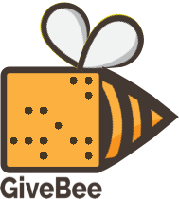
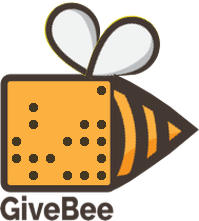
read.py working, time to begin transfer to swift

diff --git a/dot.py b/dot.py
@@ -1,11 +1,10 @@
 #! /usr/local/bin/python3
 from PIL import Image, ImageDraw
-from random import randint
 from math import sqrt
-import sys
+import sys, config
 
-GIVEBEE_BLACK = '#443822'
-PERCENT_OF_SCREEN = 0.034
+GIVEBEE_BLACK = config.GIVEBEE_BLACK
+PERCENT_OF_SCREEN = config.PERCENT_OF_SCREEN
 
 def drawx36(beeLogo, instaPhoto):
 	beeLogoDynamic = dynamic(beeLogo, instaPhoto)
@@ -45,7 +44,7 @@ def dynamic(beeLogo, instaPhoto):
 	beeLogoHeight, beeLogoWidth = beeLogo.size
 	instaPhotoHeight, instaPhotoWidth = instaPhoto.size
 	resizeRatio = min((instaPhotoWidth*sqrt(PERCENT_OF_SCREEN))/beeLogoWidth, (instaPhotoHeight*sqrt(PERCENT_OF_SCREEN))/beeLogoHeight)
-	beeLogoDynamic = beeLogo.resize((int(beeLogoHeight * resizeRatio), int(beeLogoWidth * resizeRatio)))
+	beeLogoDynamic = beeLogo.resize((int(beeLogoHeight * resizeRatio), int(beeLogoWidth * resizeRatio)), Image.ANTIALIAS)
 	return beeLogoDynamic
 
 def overlay_logo(beeLogo, instaPhoto):
@@ -56,8 +55,9 @@ def overlay_logo(beeLogo, instaPhoto):
 
 def write_log(user_id):
 	with open('log.txt', 'w') as log:
-		print(pad_user_id(str(bin(user_id))[2:]))
 		log.write(pad_user_id(str(bin(user_id))[2:]))
+	with open('log_id.txt', 'w') as log_id:
+		log_id.write(str(user_id))
 
 def pad_user_id(user_id):
 	while len(user_id) < 36:
@@ -82,7 +82,7 @@ def main():
 		else:
 			sys.exit("incorrect asset size, try 1, 2, 3")
 
-	instaPhoto = Image.open('./images/insta2.jpg')
+	instaPhoto = Image.open('./images/insta0.jpg')
 
 	overlay_logo(drawx36(beeLogo, instaPhoto), instaPhoto)
 

diff --git a/read.py b/read.py
@@ -1,2 +1,47 @@
 #! /usr/local/bin/python3
+from PIL import Image
+import config
+
+GIVEBEE_BLACK = config.GIVEBEE_BLACK
+PERCENT_OF_SCREEN = config.PERCENT_OF_SCREEN
+
+def crop_to_bee(readPhoto, beeLogo):
+	readPhotoHeight, readPhotoWidth = readPhoto.size
+	beeLogoHeight, beeLogoWidth = beeLogo.size
+	croppedBee = readPhoto.crop((readPhotoHeight - beeLogoHeight, readPhotoWidth - beeLogoWidth, readPhotoHeight, readPhotoWidth))
+	return croppedBee.crop((beeLogoHeight*0.04,beeLogoWidth*0.37,beeLogoHeight*0.55, beeLogoWidth*0.83))
+
+def more_jpeg(croppedBee):
+	return croppedBee.resize((6,6))
+
+def read_pixel_by_pixel(croppedBee):
+	binstring = ''
+	croppedBeeWidth, croppedBeeHeight = croppedBee.size
+	for x in range(croppedBeeWidth):
+		for y in range(croppedBeeHeight):
+			r,g,b = croppedBee.getpixel((y,x))
+			if rgb2hex(r,g,b) == config.GIVEBEE_BLACK:
+				binstring += '1'
+			else:
+				binstring += '0'
+	return binstring
+
+def write_readlog(binstring):
+	with open('readlog.txt', 'w') as readlog:
+		readlog.write(binstring)
+	with open('readlog_id.txt', 'w') as readlog_id:
+		readlog_id.write(str(int(binstring, 2)))
+
+def rgb2hex(r,g,b):
+    return '#{:02x}{:02x}{:02x}'.format(r,g,b)
+
+def main():
+	readPhoto = Image.open('test0.png')
+	beeLogo = Image.open('test.png')
+	croppedBee = more_jpeg(crop_to_bee(readPhoto, beeLogo))
+	croppedBee.save('test1.png')
+	write_readlog(read_pixel_by_pixel(croppedBee))
+
+main()
+
 

diff --git a/config.py b/config.py
@@ -1,0 +1,3 @@
+#! /usr/local/bin/python3
+GIVEBEE_BLACK = '#443822'
+PERCENT_OF_SCREEN = 0.034
